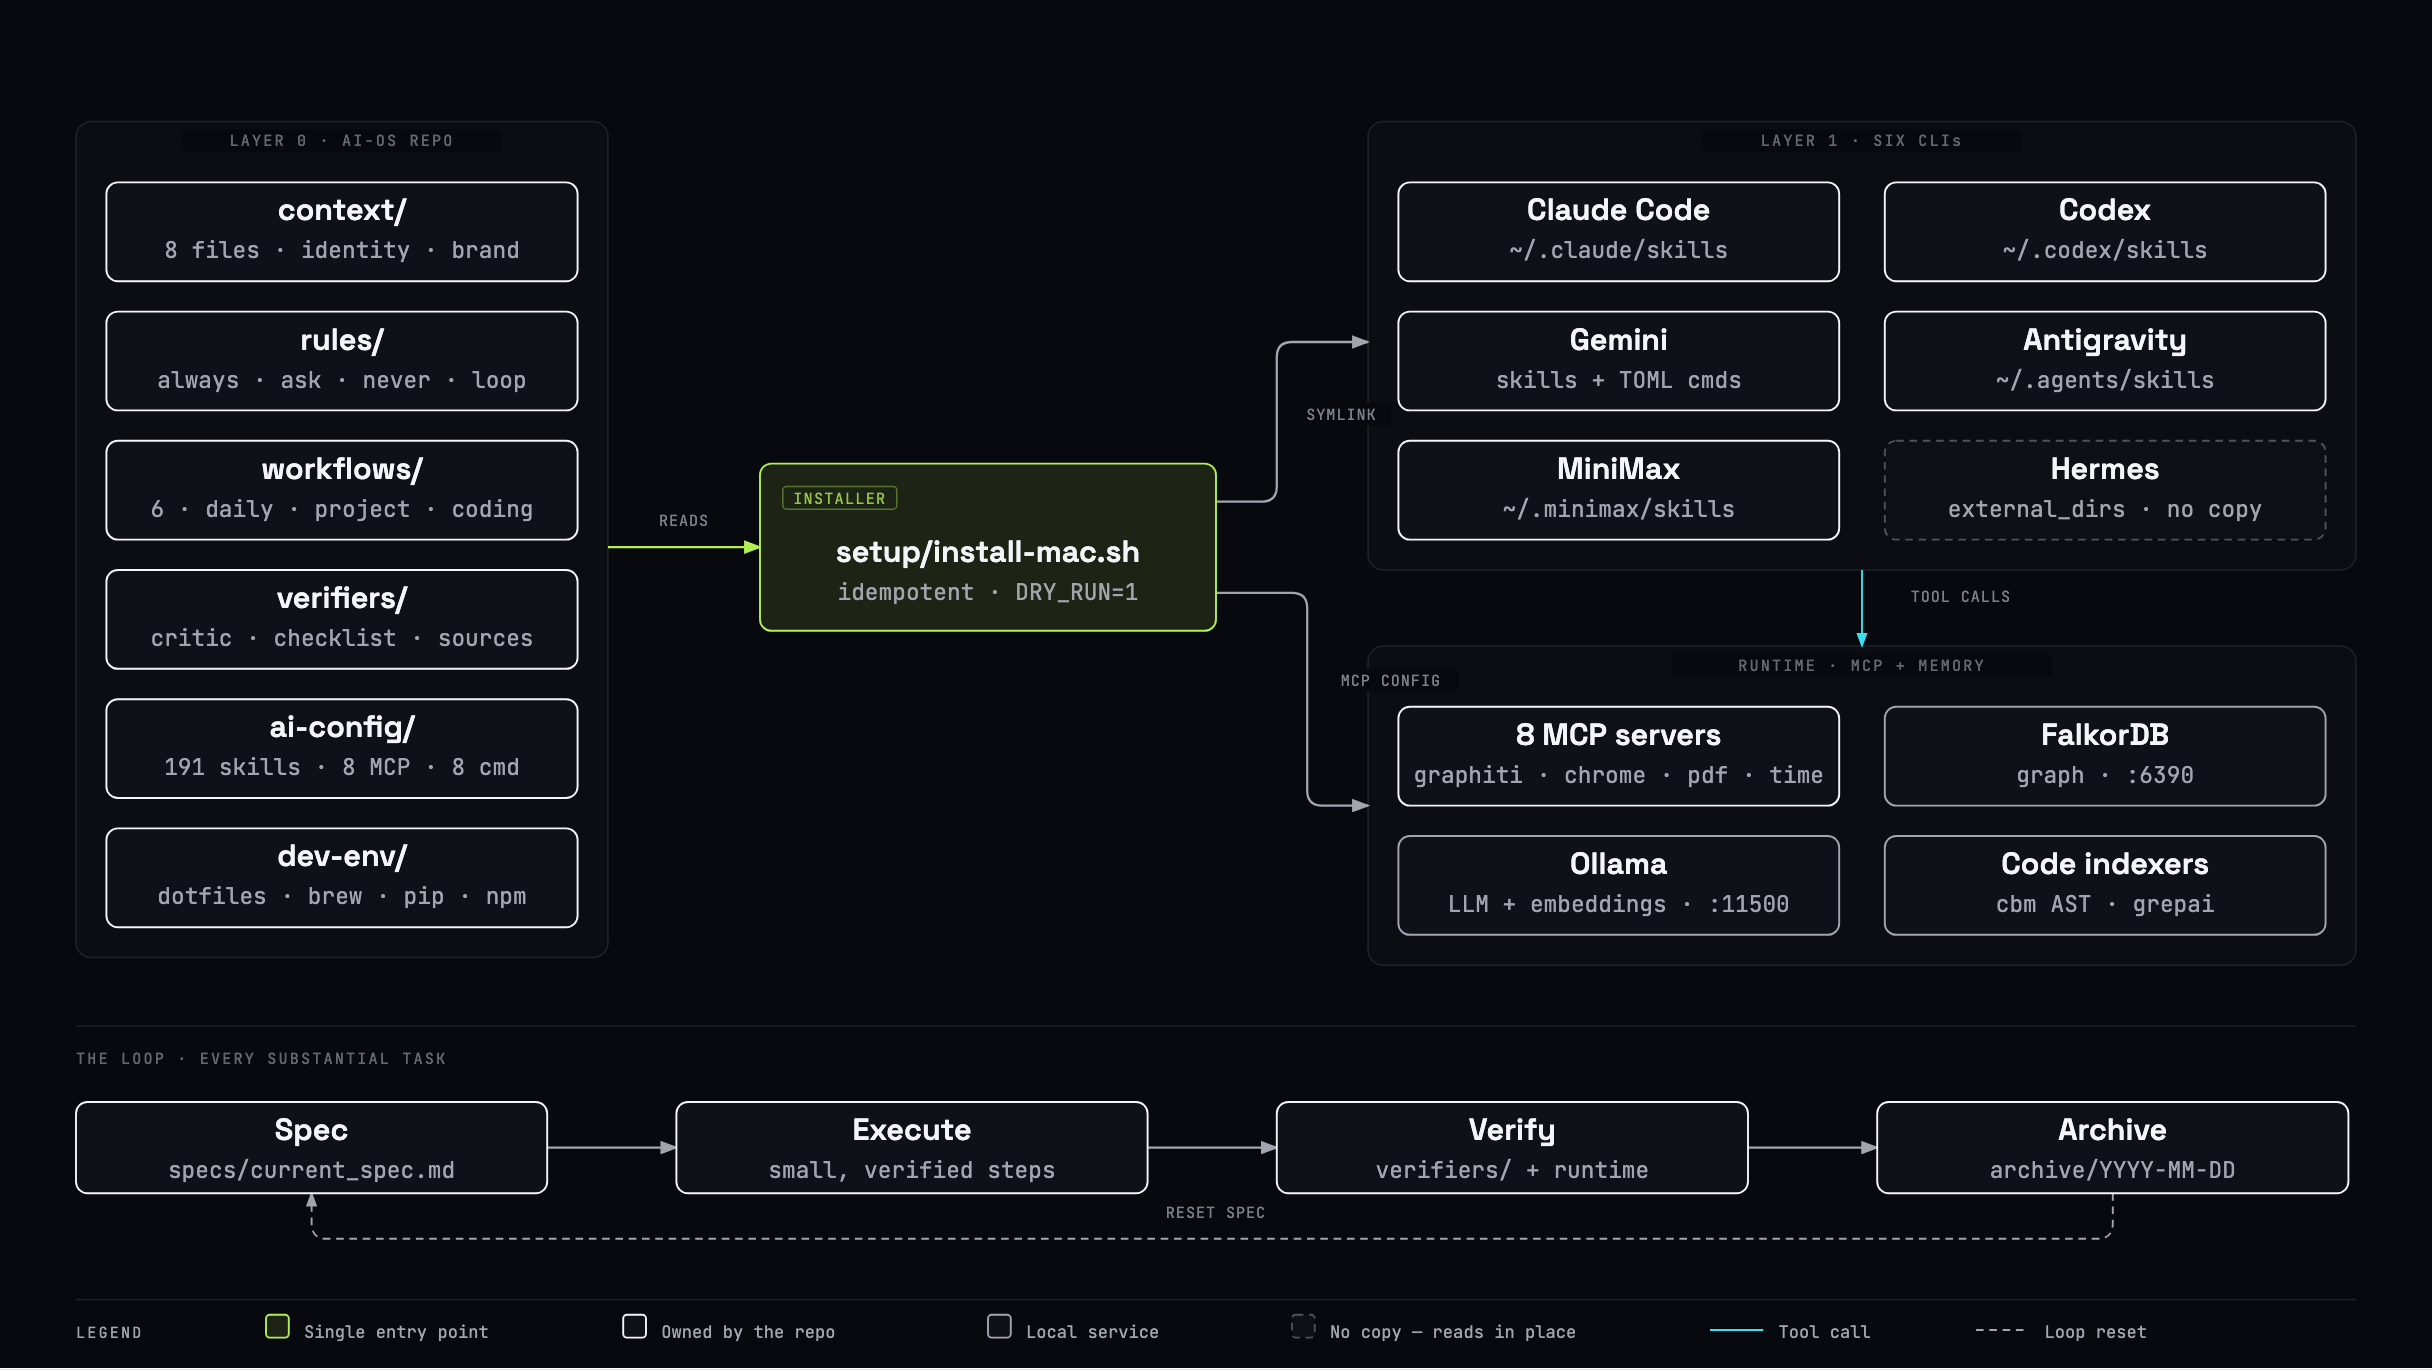
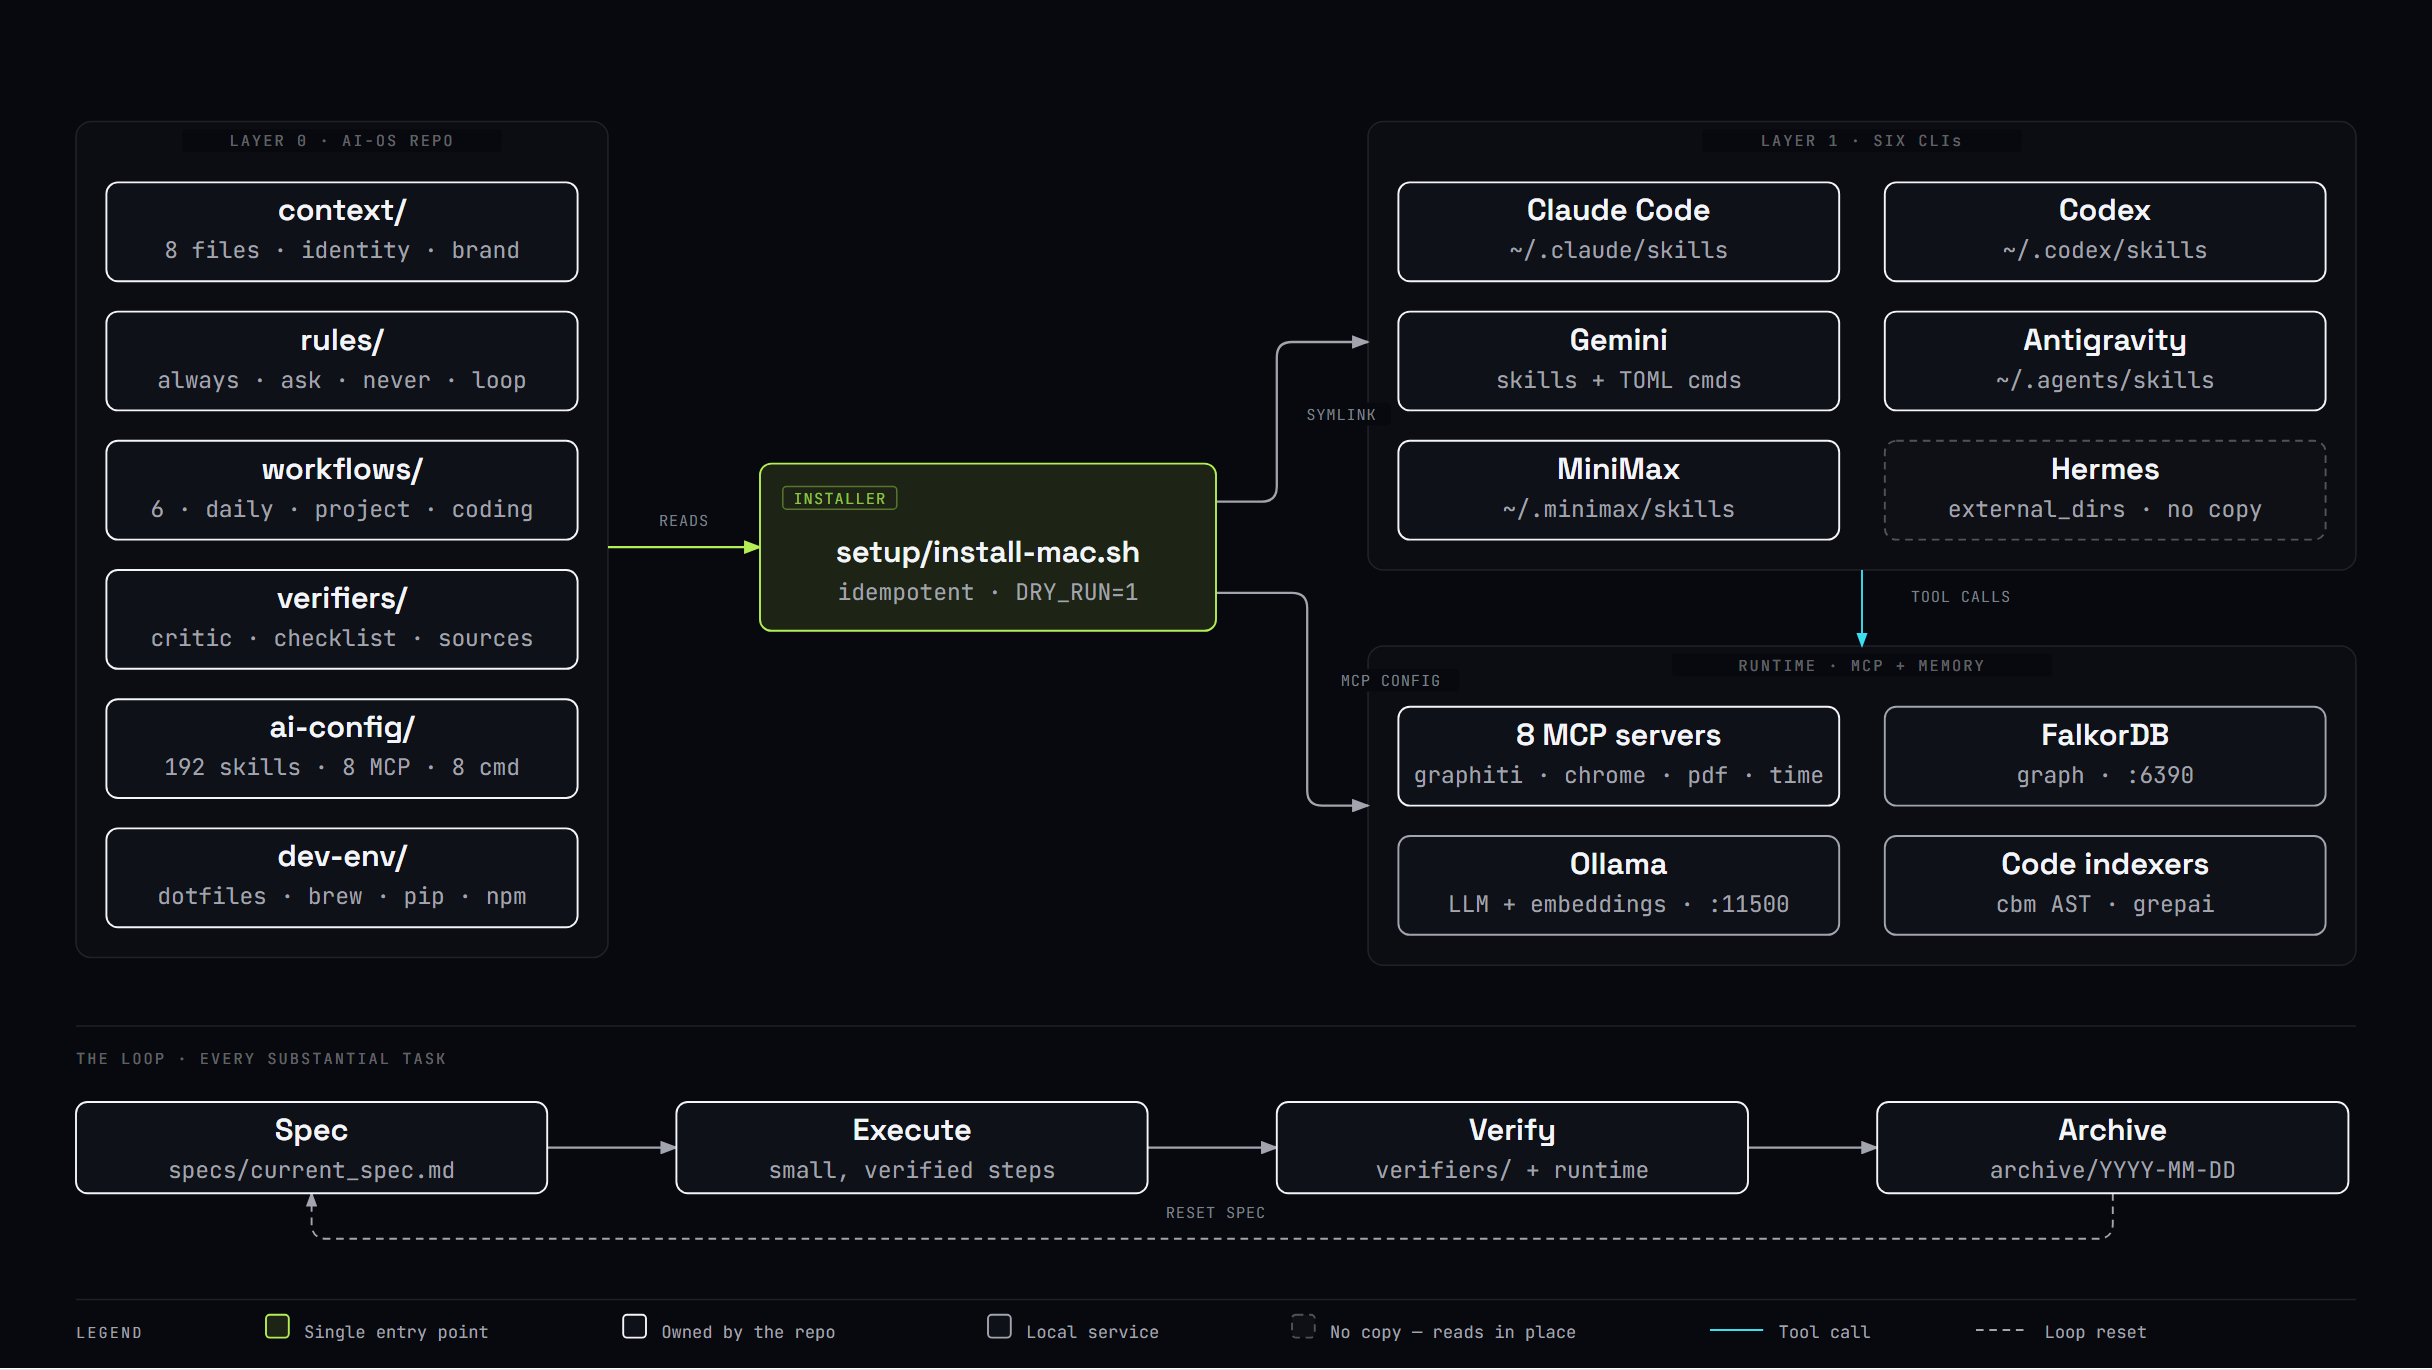
chore(site): update published skill counts for aios-pr-learnings

diff --git a/apps/site/index.html b/apps/site/index.html
@@ -5,7 +5,7 @@
     <link rel="icon" type="image/svg+xml" href="/favicon.svg" />
     <meta name="viewport" content="width=device-width, initial-scale=1, viewport-fit=cover" />
     <title>AI-OS: your AI setup, booted like an operating system</title>
-    <meta name="description" content="AI-OS is a personal AI operating system built on Karpathy's Spec → Verifier → Environment method. One command restores 191 skills across 6 AI CLIs on Mac, Windows and Linux." />
+    <meta name="description" content="AI-OS is a personal AI operating system built on Karpathy's Spec → Verifier → Environment method. One command restores 192 skills across 6 AI CLIs on Mac, Windows and Linux." />
     <meta name="author" content="Eduardo Inerarte" />
     <meta name="robots" content="index, follow, max-image-preview:large" />
     <meta name="keywords" content="AI operating system, Claude Code, Codex, Gemini, Hermes, MCP servers, AI skills, developer workflow, Karpathy method, dotfiles" />
@@ -17,7 +17,7 @@
     <meta property="og:type" content="website" />
     <meta property="og:site_name" content="AI-OS" />
     <meta property="og:title" content="AI-OS: Your AI setup, as an operating system" />
-    <meta property="og:description" content="Spec → Verifier → Environment as real workflows. One command restores 191 skills across 6 AI CLIs. Mac · Windows · Linux." />
+    <meta property="og:description" content="Spec → Verifier → Environment as real workflows. One command restores 192 skills across 6 AI CLIs. Mac · Windows · Linux." />
     <meta property="og:url" content="https://ai-os.eduardoinerarte.dk/" />
     <meta property="og:image" content="https://ai-os.eduardoinerarte.dk/og.png" />
     <meta property="og:image:width" content="1200" />
@@ -28,7 +28,7 @@
     <!-- Twitter -->
     <meta name="twitter:card" content="summary_large_image" />
     <meta name="twitter:title" content="AI-OS: Your AI setup, as an operating system" />
-    <meta name="twitter:description" content="One command restores 191 skills across 6 AI CLIs. Mac · Windows · Linux." />
+    <meta name="twitter:description" content="One command restores 192 skills across 6 AI CLIs. Mac · Windows · Linux." />
     <meta name="twitter:image" content="https://ai-os.eduardoinerarte.dk/og.png" />
     
     <!-- Structured data -->
@@ -41,7 +41,7 @@
           "name": "AI-OS",
           "applicationCategory": "DeveloperApplication",
           "operatingSystem": "macOS, Windows, Linux",
-          "description": "A personal AI operating system built on Andrej Karpathy's Spec → Verifier → Environment method. One command restores 191 skills across 6 AI CLIs, MCP servers as declarative YAML, and a reproducible dev environment.",
+          "description": "A personal AI operating system built on Andrej Karpathy's Spec → Verifier → Environment method. One command restores 192 skills across 6 AI CLIs, MCP servers as declarative YAML, and a reproducible dev environment.",
           "url": "https://ai-os.eduardoinerarte.dk/",
           "author": { "@type": "Person", "name": "Eduardo Inerarte" },
           "license": "https://opensource.org/licenses/MIT",

diff --git a/apps/site/og-source.html b/apps/site/og-source.html
@@ -30,7 +30,7 @@
 <body><div class="card"><div class="grid"></div>
   <div class="brand"><div class="mark">◆</div><div class="name">AI-OS</div></div>
   <h1>Your AI setup, booted<br>like an <span class="hi">operating</span><br><span class="hi">system</span>.</h1>
-  <div class="sub">Spec → Verifier → Environment · one command · 191 skills · 6 CLIs</div>
+  <div class="sub">Spec → Verifier → Environment · one command · 192 skills · 6 CLIs</div>
   <div class="row">
     <div class="pill"><span class="dot" style="background:#b6f24a"></span>Karpathy method</div>
     <div class="pill"><span class="dot" style="background:#3dd6f0"></span>6 AI CLIs</div>
